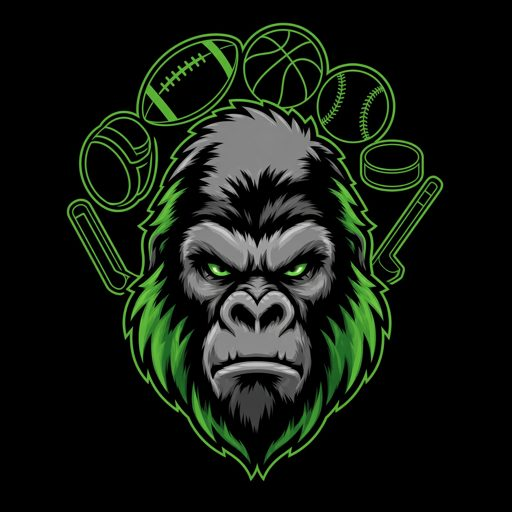
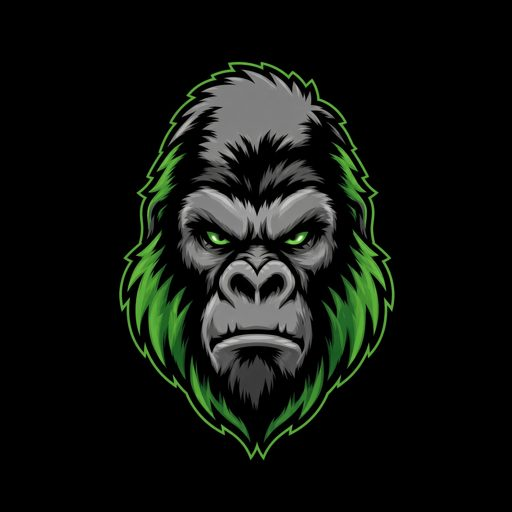
Drop the sports props from the About mark.
The lower-right graphic is the gorilla alone.

Changed region(s): [[0.125, 0.0312, 0.875, 0.9375]]

diff --git a/dashboard.html b/dashboard.html
@@ -730,7 +730,7 @@ html[data-page]:not([data-page="games"]):not([data-page="liveodds"]):not([data-p
 <p><span class="gg-name">Gnarly Gorilla</span> Sportsbooks is a free browser bet ledger for the daily <span class="gg-name">Gnarly Gorilla</span> pick cards. It tracks American-odds slips for CBB, CFB, MLB, NBA, NFL, and NHL at BetMGM, Caesars, DraftKings, Fanatics, FanDuel, and HardRock. Bets stay in this browser. The page does not log into a sportsbook and does not place wagers.</p>
 <p class="warn" id="staterule">Bet Responsibly. Gambling involves risk. Wagers can lose the full stake. This ledger is a record of picks and results, not a sportsbook, not betting advice, and not an offer to place a wager. You must be 21 or older where sports betting is legal. If gambling is causing problems, call or text 1-800-GAMBLER.</p>
 <p class="warn" id="statebooks">State rules load from the visitor location.</p>
-<img class="about-mark" src="about-mark.jpg" alt="Gnarly Gorilla with football, basketball, baseball, and hockey gear">
+<img class="about-mark" src="about-mark.jpg" alt="Gnarly Gorilla">
 </div>
 <aside class="about-box live-feed">
 <div class="feed-head"><h2>Live Feed</h2><p class="warn" id="feednote">Loading the feed.</p></div>

diff --git a/index.html b/index.html
@@ -730,7 +730,7 @@ html[data-page]:not([data-page="games"]):not([data-page="liveodds"]):not([data-p
 <p><span class="gg-name">Gnarly Gorilla</span> Sportsbooks is a free browser bet ledger for the daily <span class="gg-name">Gnarly Gorilla</span> pick cards. It tracks American-odds slips for CBB, CFB, MLB, NBA, NFL, and NHL at BetMGM, Caesars, DraftKings, Fanatics, FanDuel, and HardRock. Bets stay in this browser. The page does not log into a sportsbook and does not place wagers.</p>
 <p class="warn" id="staterule">Bet Responsibly. Gambling involves risk. Wagers can lose the full stake. This ledger is a record of picks and results, not a sportsbook, not betting advice, and not an offer to place a wager. You must be 21 or older where sports betting is legal. If gambling is causing problems, call or text 1-800-GAMBLER.</p>
 <p class="warn" id="statebooks">State rules load from the visitor location.</p>
-<img class="about-mark" src="about-mark.jpg" alt="Gnarly Gorilla with football, basketball, baseball, and hockey gear">
+<img class="about-mark" src="about-mark.jpg" alt="Gnarly Gorilla">
 </div>
 <aside class="about-box live-feed">
 <div class="feed-head"><h2>Live Feed</h2><p class="warn" id="feednote">Loading the feed.</p></div>

diff --git a/seasons.html b/seasons.html
@@ -730,7 +730,7 @@ html[data-page]:not([data-page="games"]):not([data-page="liveodds"]):not([data-p
 <p><span class="gg-name">Gnarly Gorilla</span> Sportsbooks is a free browser bet ledger for the daily <span class="gg-name">Gnarly Gorilla</span> pick cards. It tracks American-odds slips for CBB, CFB, MLB, NBA, NFL, and NHL at BetMGM, Caesars, DraftKings, Fanatics, FanDuel, and HardRock. Bets stay in this browser. The page does not log into a sportsbook and does not place wagers.</p>
 <p class="warn" id="staterule">Bet Responsibly. Gambling involves risk. Wagers can lose the full stake. This ledger is a record of picks and results, not a sportsbook, not betting advice, and not an offer to place a wager. You must be 21 or older where sports betting is legal. If gambling is causing problems, call or text 1-800-GAMBLER.</p>
 <p class="warn" id="statebooks">State rules load from the visitor location.</p>
-<img class="about-mark" src="about-mark.jpg" alt="Gnarly Gorilla with football, basketball, baseball, and hockey gear">
+<img class="about-mark" src="about-mark.jpg" alt="Gnarly Gorilla">
 </div>
 <aside class="about-box live-feed">
 <div class="feed-head"><h2>Live Feed</h2><p class="warn" id="feednote">Loading the feed.</p></div>
